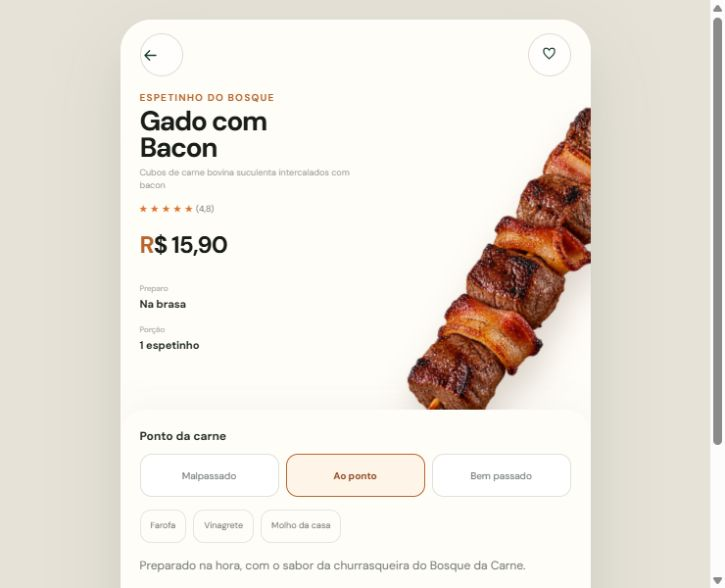
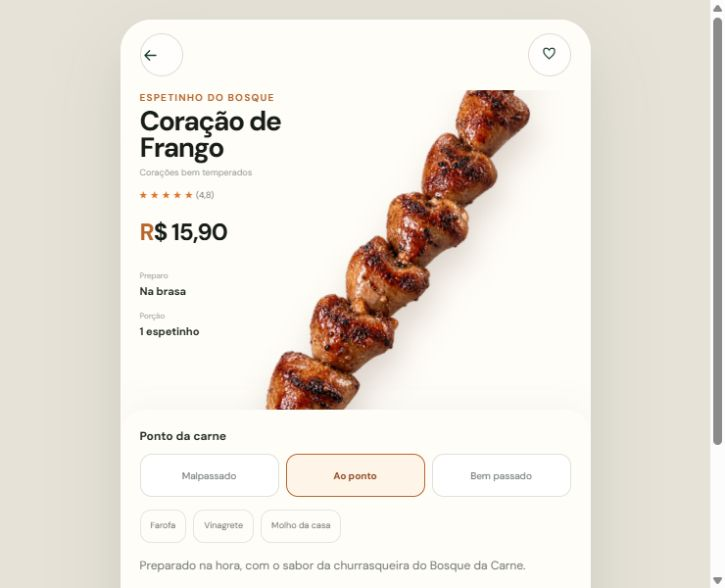
Polish skewer cards and product zoom

Changed region(s): [[0.3641, 0.1531, 0.8193, 0.7041], [0.1821, 0.1837, 0.4855, 0.4286], [0.1821, 0.4592, 0.2731, 0.6122]]

diff --git a/frontend/src/demoEspetinhos/espetinhosDemo.css b/frontend/src/demoEspetinhos/espetinhosDemo.css
@@ -43,11 +43,15 @@
   padding: 22px 20px 10px;
 }
 .skewer-home-title {
-  font-size: 25px;
+  font-size: 24px;
   line-height: 1;
   letter-spacing: -0.055em;
 }
-.skewer-home-title strong { font-weight: 700; }
+.skewer-home-title strong {
+  color: var(--forest);
+  font: 700 28px/.9 "Fraunces", Georgia, serif;
+  letter-spacing: -.045em;
+}
 .skewer-home-title span { color: #a8aaa8; font-weight: 500; }
 .skewer-search {
   height: 46px;
@@ -203,18 +207,20 @@
 .skewer-grid {
   display: grid;
   grid-template-columns: repeat(2, minmax(0, 1fr));
-  gap: 12px;
+  column-gap: 12px;
+  row-gap: 56px;
+  padding-top: 37px;
 }
 .skewer-product {
   position: relative;
-  min-height: 249px;
-  padding: 0 12px 13px;
+  min-height: 259px;
+  padding: 0 13px 14px;
   border: 1px solid #e6e5dd;
   border-radius: 18px;
   background: #fff;
   text-align: left;
   cursor: pointer;
-  overflow: hidden;
+  overflow: visible;
   animation: cardEnter 0.42s cubic-bezier(0.2, 0.8, 0.2, 1) both;
   animation-delay: var(--card-delay);
   box-shadow: 0 8px 20px #24382f0b;
@@ -227,7 +233,7 @@
   box-shadow: 0 14px 28px #24382f17;
 }
 .skewer-image-space {
-  height: 142px;
+  height: 146px;
   display: grid;
   place-items: center;
   position: relative;
@@ -236,19 +242,21 @@
   position: absolute;
   width: 90px;
   height: 21px;
-  bottom: 13px;
+  bottom: 5px;
   background: #47270f24;
   filter: blur(9px);
   border-radius: 50%;
 }
 .skewer-product img {
-  position: relative;
+  position: absolute;
   z-index: 1;
-  width: 170%;
+  top: -84px;
+  left: 50%;
+  width: 184%;
   max-width: none;
-  height: 165px;
+  height: 205px;
   object-fit: contain;
-  transform: rotate(-7deg);
+  transform: translateX(-50%) rotate(-7deg);
   filter: drop-shadow(0 13px 11px #4b2e172c);
 }
 .skewer-product-copy {
@@ -259,7 +267,7 @@
 .skewer-product-copy strong {
   display: block;
   font:
-    700 14px/1.12 "DM Sans", sans-serif;
+    700 15px/1.15 "DM Sans", sans-serif;
   color: var(--coal);
 }
 .skewer-product-copy small {
@@ -267,11 +275,11 @@
   -webkit-line-clamp: 2;
   -webkit-box-orient: vertical;
   overflow: hidden;
-  height: 31px;
+  height: 34px;
   margin-top: 6px;
   color: var(--muted);
-  font-size: 10px;
-  line-height: 1.45;
+  font-size: 10.5px;
+  line-height: 1.5;
 }
 .skewer-product-copy b {
   display: block;
@@ -381,10 +389,10 @@
 .skewer-detail-visual img {
   position: absolute;
   z-index: 2;
-  right: -148px;
-  top: -5px;
-  width: 455px;
-  height: 390px;
+  right: -82px;
+  top: -46px;
+  width: 590px;
+  height: 470px;
   max-width: none;
   object-fit: contain;
   transform: rotate(-13deg);

diff --git a/design-qa.md b/design-qa.md
@@ -42,6 +42,9 @@
 2. Earlier P1: selected product stayed centered with copy below. Fix: rebuilt the hero with copy at upper-left and a larger, right-aligned skewer clipped at the top/right.
 3. Earlier P2: category thumbnails overflowed and collided with labels. Fix: clipped them inside 47 px circular controls and adjusted their crop.
 4. Post-fix evidence: `qa-home-comparison.png` and `qa-detail-comparison.png` show no remaining actionable P0, P1, or P2 mismatch.
+5. User review P1: card imagery crossed behind product names and the detail crop exposed too little of the skewer. Fix: reserved a clean image stage above card copy, moved the skewer beyond the card's top edge, and enlarged/repositioned the detail asset to expose substantially more of the product.
+6. User review P2: “Com fome?” used a different typographic voice from the section heading. Fix: applied the same Fraunces display face, weight, color, and tight tracking used by “Espetinhos”.
+7. Post-review evidence: refreshed home and detail captures confirm clean copy separation, deliberate card breakout, larger detail crop, and matching display typography.
 
 **Primary interactions tested**
 - Category filtering.
@@ -60,4 +63,3 @@
 - P3: add the remaining menu categories after their matching transparent product assets are generated.
 
 final result: passed
-
